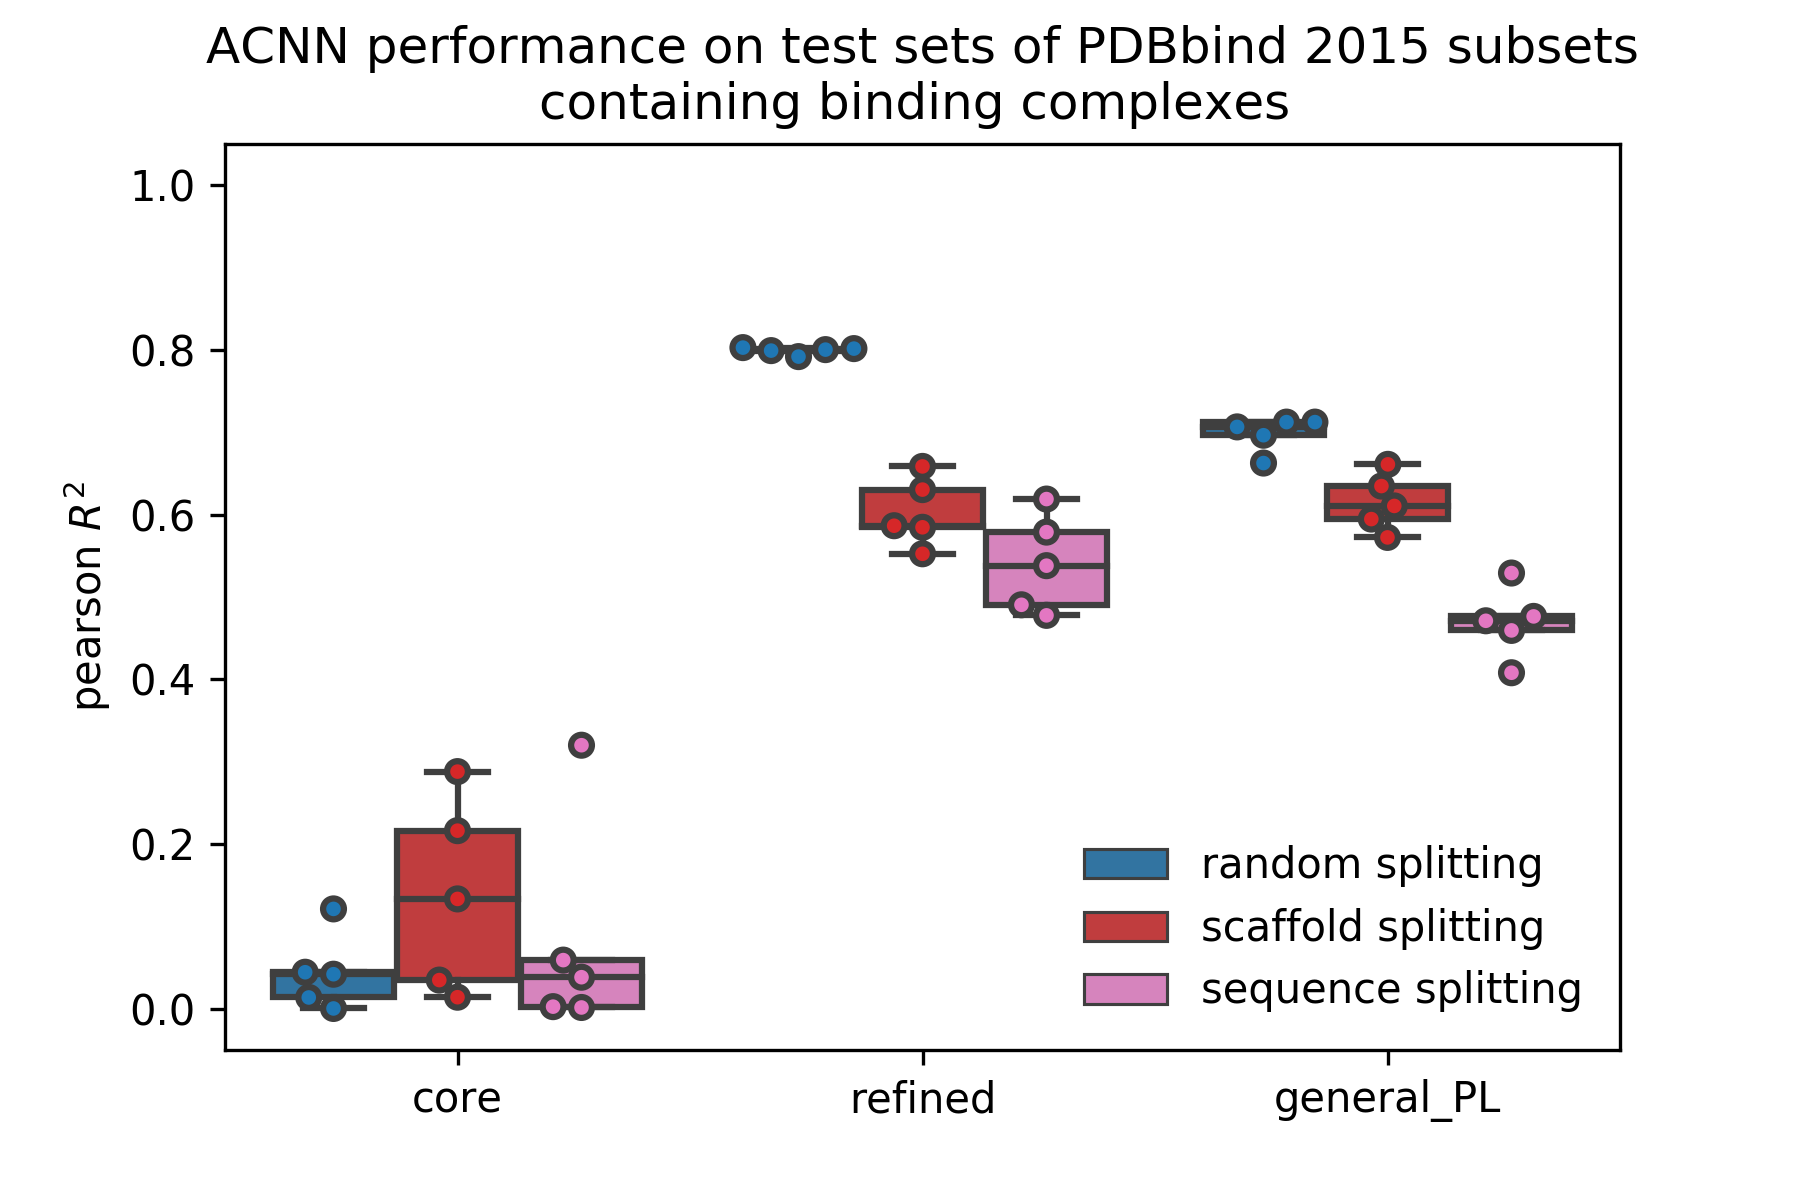
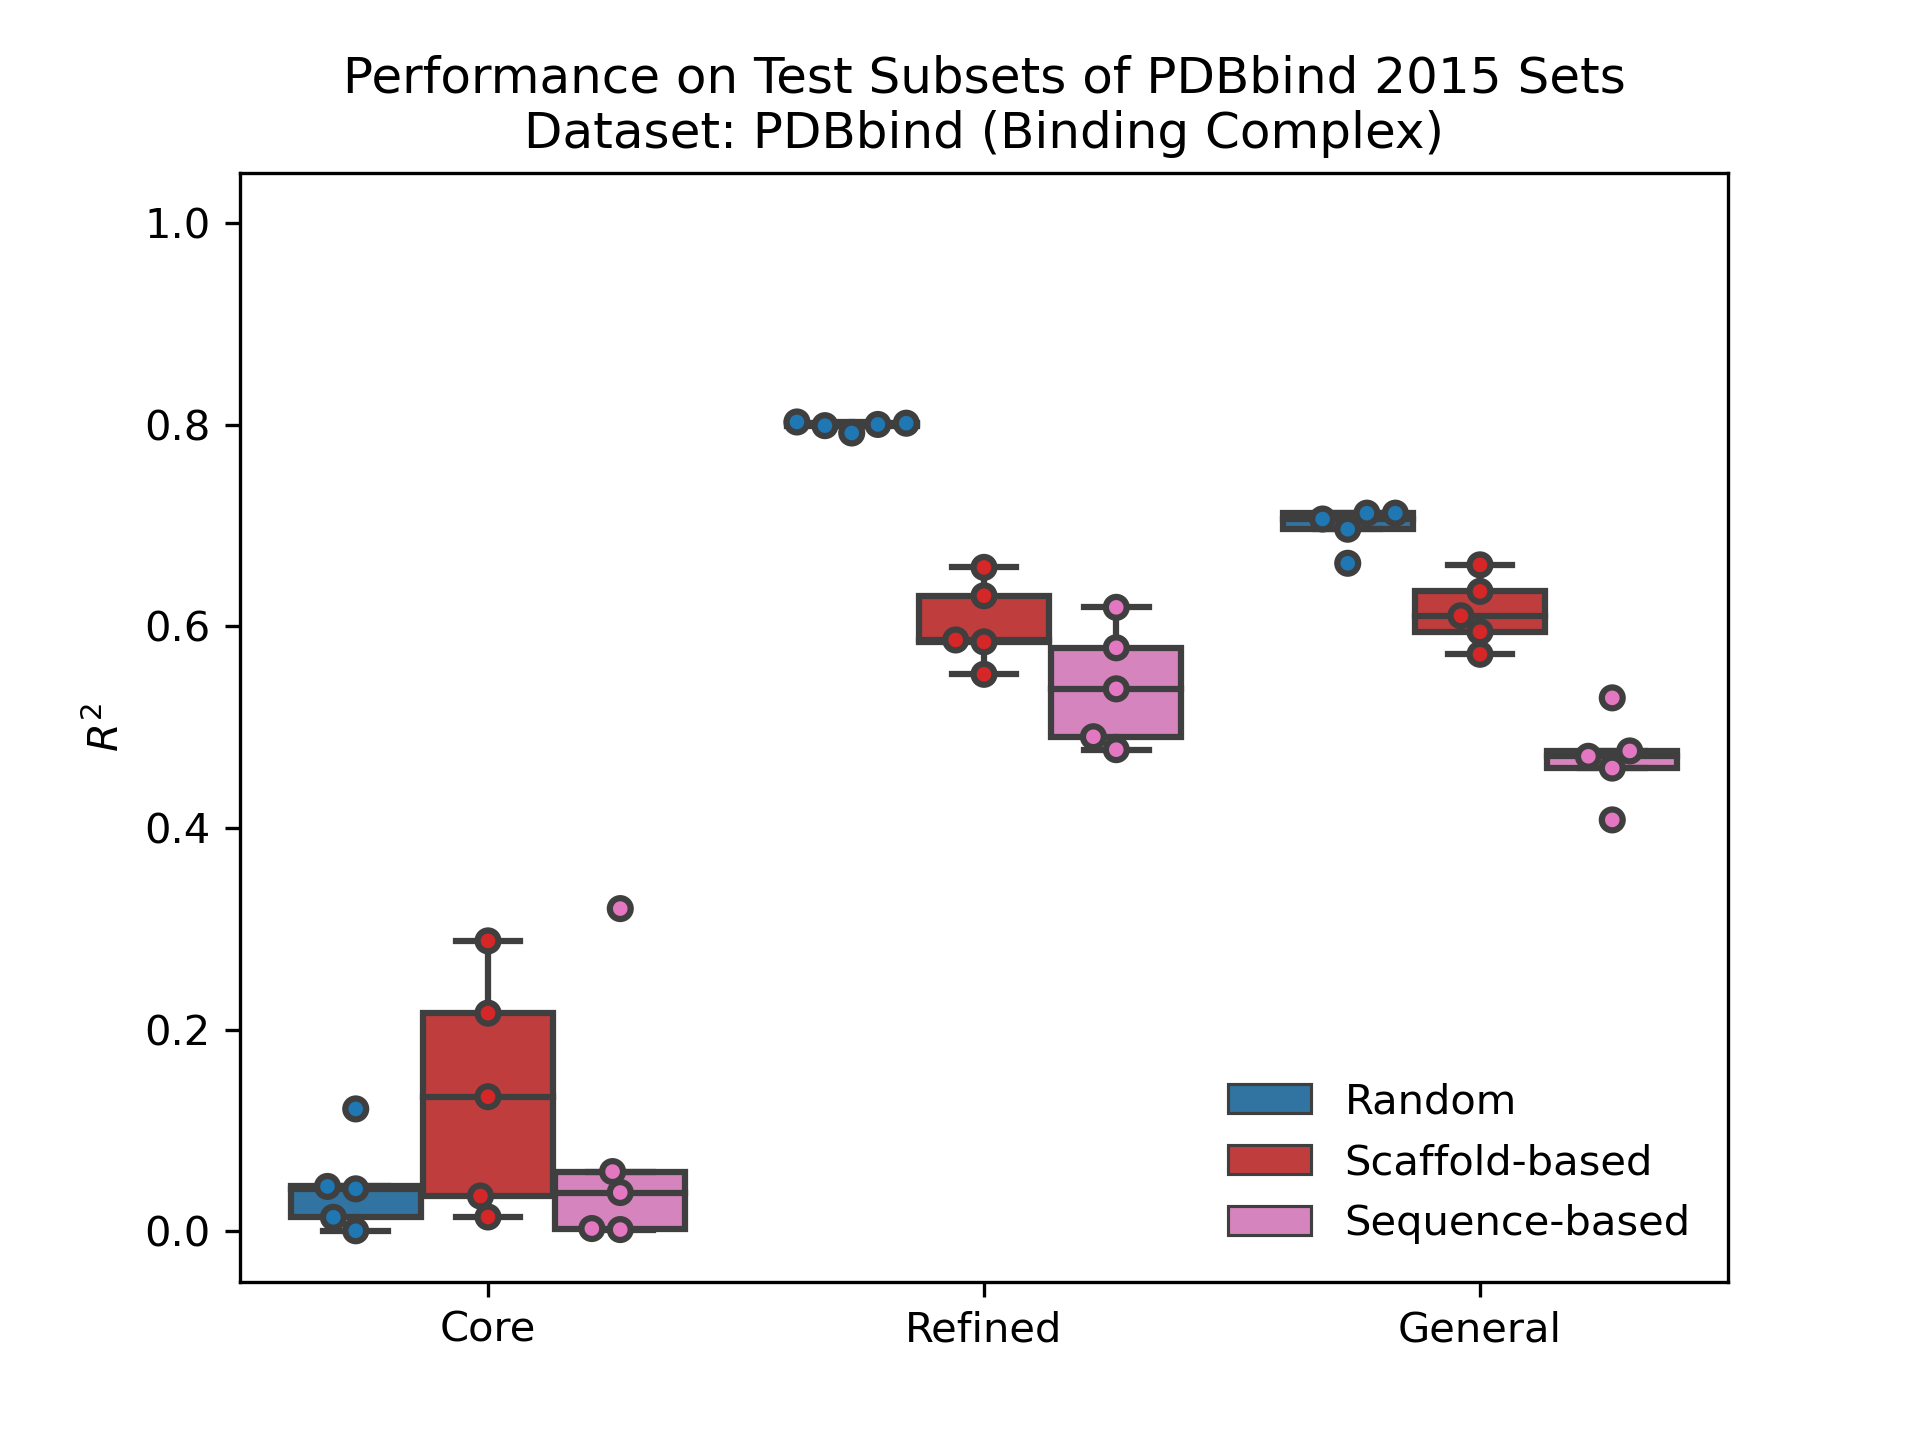
update all figure titles for PDBbind self split.

diff --git a/pdbbind/self.figures/box.py b/pdbbind/self.figures/box.py
@@ -49,7 +49,7 @@ for c in colors[:3]:
     colors_2d.extend(sns.light_palette(c, 5)[-3:])
 
 sns.palplot(colors_2d)
-colors_2d = np.reshape(colors_2d, (3, 3, 4))
+colors_2d = np.reshape(colors_2d, (3, 3, 3))
 
 colors_2d = sns.color_palette('Paired', 9)
 colors_2d = sns.color_palette()[:9]
@@ -108,7 +108,7 @@ for metric, metric_name in zip(metrics, metric_names):
         ax.set_xlabel('')
         ax.set_xticklabels(subset_names)
         ax.set_ylabel(metric_name)
-        ax.set_title(f'Performance on Test Subsets of PDBbind Sets\n'
+        ax.set_title(f'Performance on Test Subsets of PDBbind {version} Sets\n'
                      f'Splitting Method: {split_name}')
         ax.set_ylim([-0.05, 1.05])
         fig.savefig(root / f"{version}.{split}.{metric}.png", dpi=300)
@@ -165,7 +165,7 @@ for metric, metric_name in zip(metrics, metric_names):
         ax.set_xlabel('')
         ax.set_xticklabels(subset_names)
         ax.set_ylabel(metric_name)
-        ax.set_title(f'Performance on Test Subsets of PDBbind Sets\n'
+        ax.set_title(f'Performance on Test Subsets of PDBbind {version} Sets\n'
                      f'Dataset: PDBbind ({component_name})')
         ax.set_ylim([-0.05, 1.05])
         fig.savefig(root / f"{version}.{component}.{metric}.png", dpi=300)
